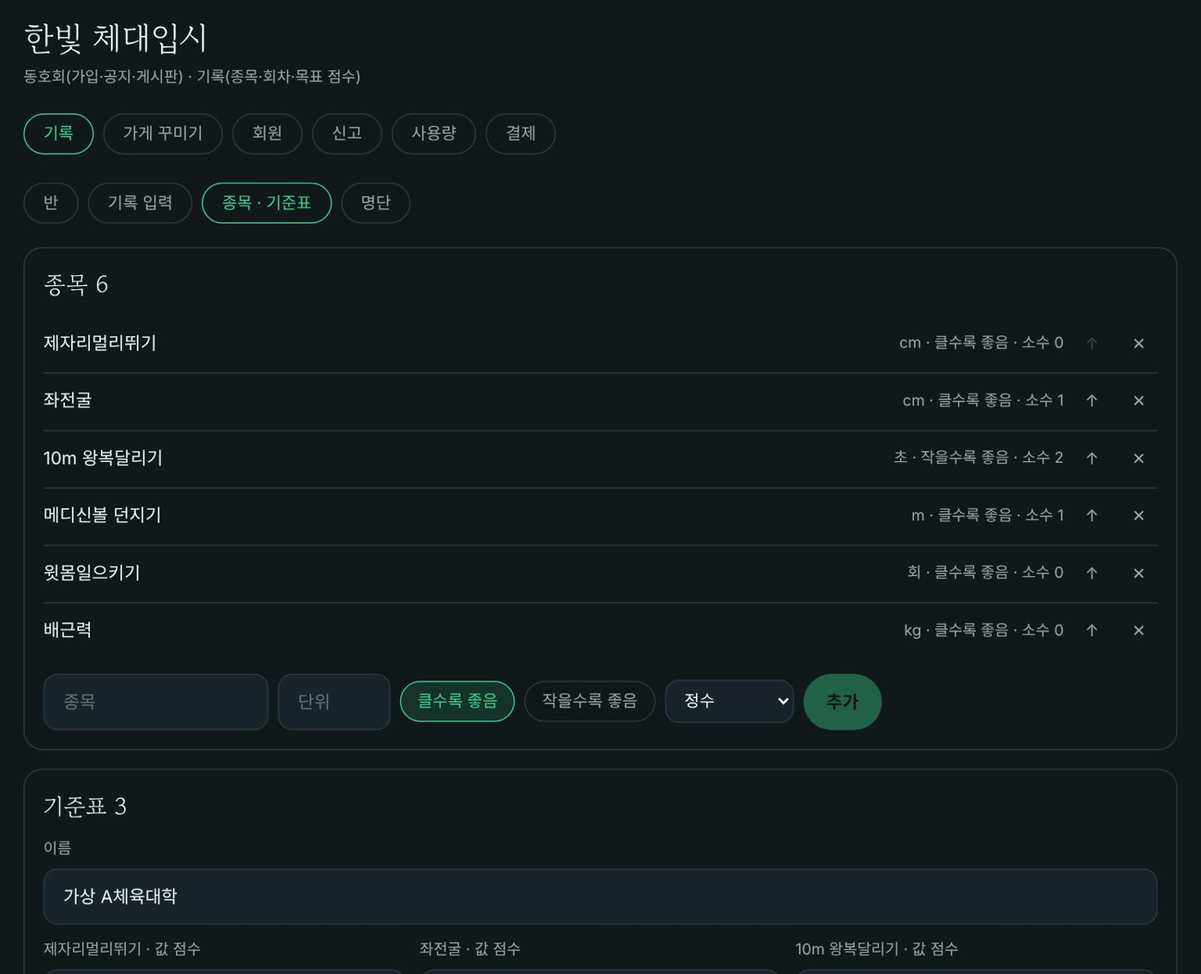
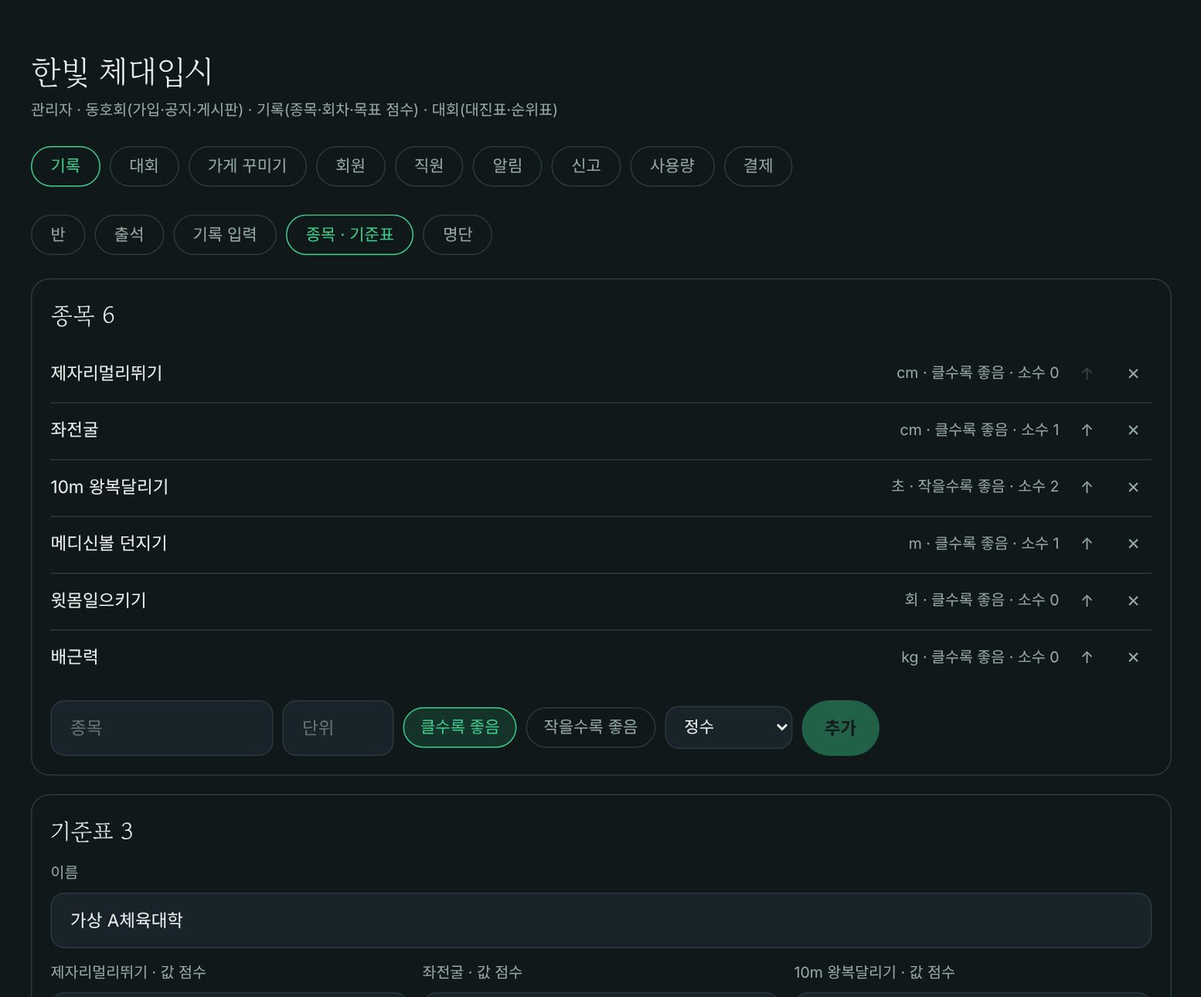
체대입시 페이지: 첫 화면 새 틀 + 출석·대회 장면, 카드 "바로 가능"
- 첫 화면: "실기 기록 · 출석 · 대회를 우리 학원 이름의 앱 하나로" + 3줄 + 코치 PC·학부모 링크 겹침
- 추천에 "출석 · 보호자 알림"(출석부·학생 달력), 학부모 리포트에 출석 알림·이번 달 출석
- 옵션 "대회 운영": 공개 링크 대진표·조별 순위 + 코치 화면·점수 넣기·참가자
- 장면 이미지 다시 찍음(img/sports 20장)
- 사이트: 체대입시 카드 "바로 가능", 기능 목록 갱신, "대회 운영" 부품 완료로
- docs/main.md 갱신

Claude-Session: https://claude.ai/code/session_01R73CvLEENwJndsexuEVBaY

diff --git a/demo/sports.html b/demo/sports.html
@@ -3,7 +3,7 @@
 <head>
 <meta charset="utf-8">
 <meta name="viewport" content="width=device-width, initial-scale=1">
-<title>체대입시·유소년 스포츠 기록 모듈 — 앱공방</title>
+<title>체대입시·유소년 스포츠 — 기록·출석·대회 앱 — 앱공방</title>
 <meta name="robots" content="noindex">
 <link rel="preconnect" href="https://fonts.googleapis.com">
 <link href="https://fonts.googleapis.com/css2?family=Noto+Sans+KR:wght@400;500;700;800&display=swap" rel="stylesheet">
@@ -60,6 +60,22 @@
   dialog p{color:var(--ink);text-align:center;font-size:15px;margin-top:10px}
   dialog .close{position:fixed;top:14px;right:14px}
   @media (max-width:640px){h1{font-size:26px}.mhead h3{font-size:22px}}
+  /* ── 첫 화면: 무엇인지 한눈에(실제 화면 두 장 겹쳐서) ── */
+  .hero2{display:grid;grid-template-columns:1fr 1.1fr;gap:48px;align-items:center;padding:56px 0 32px;border-bottom:1px solid var(--line)}
+  .hero2 h1{font-size:42px;letter-spacing:-1.4px;line-height:1.25;margin:10px 0 14px}
+  .hero2 .lead{color:var(--muted);font-size:17px;max-width:30em}
+  .points{list-style:none;padding:0;display:grid;gap:12px;margin:26px 0 0}
+  .points li{display:grid;grid-template-columns:28px 1fr;gap:10px;align-items:start;font-size:16px}
+  .points li i{font-style:normal;width:28px;height:28px;border-radius:9px;background:var(--surface2);color:var(--accent);display:grid;place-items:center;font-size:14px;font-weight:800}
+  .points li span{color:var(--muted)}
+  .actions{display:flex;gap:10px;flex-wrap:wrap;margin-top:28px}
+  .shots{position:relative;padding:18px 0 0}
+  .shots .pc{width:86%;margin-left:auto;display:block;border-radius:14px;border:1px solid var(--line);box-shadow:0 20px 60px rgba(0,0,0,.5)}
+  .shots .mobile{position:absolute;left:0;bottom:-24px;width:34%;border-radius:24px;border:6px solid #0b0d0d;box-shadow:0 24px 60px rgba(0,0,0,.6);background:#0b0d0d}
+  .shots .label{position:absolute;font-size:13px;font-weight:700;background:var(--night);border:1px solid var(--line);border-radius:999px;padding:4px 12px;color:var(--ink)}
+  .shots .label.l2{right:3%;top:0}
+  .shots .label.l1{left:4%;bottom:-40px}
+  @media (max-width:900px){.hero2{grid-template-columns:1fr;gap:28px;padding:32px 0 56px}.hero2 h1{font-size:30px}}
 </style>
 </head>
 <body>
@@ -69,14 +85,31 @@
 </div></header>
 
 <main class="wrap">
-  <section class="hero">
-    <p class="eyebrow">시스템 서비스 · 체대입시 · 유소년 스포츠 · 태권도</p>
-    <h1>실기 기록 · 목표 점수 모듈</h1>
-    <div class="pills">
-      <span class="pill">가상 데이터로 찍은 실제 화면</span>
-      <span class="pill">엑셀 대신 반 × 종목 표에 입력</span>
-      <span class="pill">학부모는 로그인 없이 링크로</span>
+  <section class="hero2">
+    <div>
+      <p class="eyebrow">체대입시 · 유소년 스포츠 · 태권도 · 운동부</p>
+      <h1>실기 기록 · 출석 · 대회를<br>우리 학원 이름의 앱 하나로</h1>
+      <p class="lead">코치는 PC에서 기록과 출석을 표에 찍고, 학부모는 로그인 없이 링크 하나로 아이의 기록과 출석을 봐요. 앱 이름·색·아이콘은 우리 학원 것으로.</p>
+      <ul class="points">
+        <li><i>1</i><div>실기 기록 · 목표 점수 <span>— 반 × 종목 표에 입력, 목표 대학 기준으로 지금 몇 점인지</span></div></li>
+        <li><i>2</i><div>출석 · 보호자 알림 <span>— 명단에서 출석을 찍으면 학부모 휴대폰으로 바로</span></div></li>
+        <li><i>3</i><div>대회 대진표 · 순위표 <span>— 조 편성부터 결과 입력, 우승까지 자동</span></div></li>
+      </ul>
+      <div class="actions">
+        <a class="btn" href="/#contact">문의하기</a>
+        <a class="btn ghost" href="#scenes">화면 보기</a>
+      </div>
     </div>
+    <div class="shots" aria-label="실제 화면(가상 데이터)">
+      <img class="pc" src="/img/sports/goal-1.jpg" alt="코치 PC: 학생 목표 점수와 집중 종목">
+      <img class="mobile" src="/img/sports/parent-1.jpg" alt="학부모 링크: 출석 알림, 코치 한 줄, 이번 달 출석">
+      <span class="label l2">코치 PC</span>
+      <span class="label l1">학부모 링크</span>
+    </div>
+  </section>
+
+  <section class="hero" id="scenes">
+    <p class="eyebrow">가상 데이터로 찍은 실제 화면</p>
     <nav class="jump" aria-label="모듈" id="jump"></nav>
   </section>
   <div id="groups"></div>
@@ -84,12 +117,12 @@
   <section class="cta">
     <div>
       <h2>우리 종목·기준으로 보고 싶다면</h2>
-      <p>측정 종목·반 구성·목표 기준(대학 배점표, 승급 기준)을 적어 주시면 그 내용으로 바꾼 화면을 보내 드려요.</p>
+      <p>측정 종목·반 구성·목표 기준(대학 배점표, 승급 기준)·수업 요일을 적어 주시면 그 내용으로 바꾼 화면을 보내 드려요.</p>
     </div>
     <a class="btn" href="/#contact">문의하기</a>
   </section>
 </main>
-<footer class="wrap">화면의 학원·학생·기록은 모두 가상 데이터이고, 기준표의 학교 이름과 점수도 실제가 아니에요. 실제 기준표는 학원이 학교별 모집요강을 보고 넣습니다.</footer>
+<footer class="wrap">화면의 학원·학생·기록·출석·대회는 모두 가상 데이터이고, 기준표의 학교 이름과 점수도 실제가 아니에요. 실제 기준표는 학원이 학교별 모집요강을 보고 넣습니다.</footer>
 
 <dialog id="zoom" aria-label="크게 보기">
   <button class="btn ghost close" type="button" id="zoomClose">닫기</button>
@@ -113,14 +146,25 @@ const GROUPS = [
       ["goal-2", "반 전체 표", "학생 × 종목 최근 기록, 반 평균보다 좋으면 강조"],
       ["goal-3", "기준표 넣기", "종목마다 \"기록 점수\" 줄을 붙여넣기"],
     ]},
+    { id: "attend", rec: true, plan: "업종 패키지 포함", title: "출석 · 보호자 알림", line: "명단에서 출석·지각·결석을 찍으면 알림을 켠 학부모에게 바로", wide: true, scenes: [
+      ["attend-1", "출석부", "반 × 날짜, \"모두 출석\" 한 번에, 학생마다 이번 달 출석률"],
+      ["attend-2", "학생 출석 달력", "이번 달 출석률·지난달, 날마다 출석·지각·결석"],
+    ]},
     { id: "parent", rec: true, plan: "업종 패키지 포함", title: "학부모 리포트", line: "로그인 없이 링크 하나로. 다른 학생 이름은 보이지 않음", wide: false, scenes: [
-      ["parent-1", "리포트 첫 화면", "코치 한 줄, 요약 문장, 목표 점수"],
+      ["parent-1", "리포트 첫 화면", "출석 알림 켜기, 코치 한 줄, 이번 달 출석"],
+      ["attend-3", "이번 달 출석 · 요약", "출석 달력과 목표 점수 문장"],
       ["parent-2", "종목별 추이", "회차마다 기록, 반 평균과 목표 점선"],
     ]},
   ]},
-  { title: "다음 단계 — 출석과 대회까지", modules: [
-    { id: "attend", plan: "옵션", soon: true, title: "출결 · 공지", line: "결석을 바로 알고 학부모에게 알리게", steps: ["수업 장소 QR로 출석", "결석·지각이 자동으로 표시되고 알림", "공지는 학부모 리포트 링크와 같은 곳에"] },
-    { id: "match", plan: "옵션", soon: true, title: "대회 운영", line: "학원·도장 자체 대회를 앱에서", steps: ["참가 신청 받기", "대진표·조 편성", "결과 입력 → 순위표 자동"] },
+  { title: "옵션 — 학원·도장 자체 대회", modules: [
+    { id: "match", plan: "옵션", title: "대회 운영", line: "토너먼트 · 리그 · 조별 리그 + 본선. 결과만 넣으면 대진표와 순위표가 자동으로", wide: false, scenes: [
+      ["comp-3", "공개 링크 — 대진표", "로그인 없이, 학부모·참가자에게 링크 하나로"],
+      ["comp-4", "공개 링크 — 조별 순위", "승점 → 득실차 → 다득점, 라운드별 결과"],
+    ], wideScenes: [
+      ["comp-1", "코치 화면", "본선 대진표와 조별 순위표, 경기를 누르면 점수 입력"],
+      ["comp-2", "점수 넣기", "동점이면 승부차기 승자 고르기"],
+      ["comp-5", "참가자 · 방식", "\"이름, 소속\" 붙여넣기 또는 반 명단 불러오기, 같은 소속은 다른 조로"],
+    ]},
   ]},
   { title: "기본 포함", modules: [
     { id: "manage", plan: "모든 패키지", title: "반 · 학생 · 종목 관리", line: "명단은 붙여넣기 한 번, 종목은 학원이 직접 정함", wide: true, scenes: [

diff --git a/index.html b/index.html
@@ -511,13 +511,13 @@ const SYSTEM = {
   industries: [
     { id:"sys-gym", icon:"🏋", title:"헬스장 · PT · 필라테스", status:"ready", scenes:"/demo/gym", feat:["이용권(횟수권·기간권)", "수업 예약·대기", "출석(매장 QR)", "+ 이용권 판매·청구(회원 결제)", "+ 매니저·코치 권한", "혼잡도(준비 중)"] },
     { id:"sys-academy", icon:"📚", title:"학원 · 공부방", status:"soon", scenes:"/demo/academy", feat:["반·학생 관리", "출결", "숙제", "학부모 공지", "+ 단원·개념별 취약 진단", "+ 학생별 문제 자동 조합", "+ 힌트·해설 단계 공개"] },
-    { id:"sys-youth", icon:"🥋", title:"체대입시 · 유소년 스포츠 · 태권도", status:"soon", scenes:"/demo/sports", feat:["반·학생 관리", "보호자 공지", "+ 실기·체력 기록과 추이", "+ 목표 점수(배점표·승급 기준)", "+ 학부모 리포트 링크", "출석·대회(준비 중)"] },
+    { id:"sys-youth", icon:"🥋", title:"체대입시 · 유소년 스포츠 · 태권도", status:"ready", scenes:"/demo/sports", feat:["반·학생 관리", "출석·보호자 알림", "보호자 공지", "+ 실기·체력 기록과 추이", "+ 목표 점수(배점표·승급 기준)", "+ 학부모 리포트 링크", "+ 대회 대진표·순위표"] },
     { id:"sys-salon", icon:"💇", title:"미용실 · 네일 · 피부관리", status:"soon", feat:["시간 예약", "담당자 선택", "시술 기록"] },
     { id:"sys-cafe", icon:"☕", title:"식당 · 카페", status:"soon", feat:["메뉴판", "포장 주문", "대기 등록", "쿠폰"] },
     { id:"sys-club", icon:"🧗", title:"동호회 · 모임 · 스터디", status:"ready", demo: DEMO + "demo-club", scenes:"/demo/club", feat:["가입 승인", "모임 일정·참가 신청", "단체 채팅", "회비(준비 중)"] },
   ],
   special: [
-    { title:"대회 운영", parts:[["참가 신청·참가비",1],["공지·단체 채팅",1],["조 편성·대진표·순위표",0],["경기 결과 입력",0]] },
+    { title:"대회 운영", scenes:"/demo/sports#match", parts:[["참가 신청·참가비",1],["공지·단체 채팅",1],["조 편성·대진표·순위표",1],["경기 결과 입력",1]] },
     { title:"신체 능력 측정", scenes:"/demo/sports", parts:[["기록 추세 계산",1],["측정 항목·등급표 직접 설정",1],["단체 일괄 입력",1]] },
     { title:"개인 성장 프로필", scenes:"/demo/sports", parts:[["그래프·리포트",1],["회차별 기록 저장·비교",1],["보호자·본인 리포트 공유",1]] },
     { title:"취약 진단 · 맞춤 시험지", scenes:"/demo/academy", parts:[["레벨 측정·적응형 퀴즈",1],["단원·개념별 숙달도 히트맵·추이",0],["학생별 비율로 문제 자동 조합",0],["힌트 단계·해설 일부 공개",0]] },

diff --git a/docs/main.md b/docs/main.md
@@ -32,7 +32,7 @@
 | `index.html` | 첫 화면에서 **앱 판매 / 시스템 서비스** 두 갈래(`#apps`·`#system`). 앱 판매: 맨 위 "사업 아이디어를 서비스로"(아이디어 예시 5개 + 내 아이디어, 부품 ✓있음/○준비 중, 데이터 `IDEAS`) → "분야별 전문 기능"(학습·운동·연결·판매·데이터 묶음 + 기타, 데이터 `DOMAINS`) → 상품 목록(분류: 앱 템플릿·기능 모듈·설치/운영, 검색) → 상품 상세 창(화면·기능·패키지 가격·데모·"이 상품 문의하기"). 시스템 서비스: 1 기본(모든 업종) → 2 업종 패키지 → 3 추가 기능 → 4 우리 조직 전용 모듈(`SYSTEM.special`) → 5 이용 방식(월 구독·설치형·유지보수). 공통: 이용 방법·FAQ·문의창. 데이터는 파일 안 `PRODUCTS`(앱 판매)·`SYSTEM`(시스템 서비스). 카드의 `scenes` = 모듈 화면 페이지(`/demo/<업종>`, "모듈 화면 보기", 같은 탭), `demo` = 체험 앱(새 탭) |
 | `demo/academy.html` | 학원 학습 모듈 소개(`/demo/academy`, 검색 제외). **첫 화면 = 무엇인지 한눈에**(11/16, PR #14): 제목 "약점 진단 · 맞춤 시험지를 우리 학원 이름의 앱 하나로" + 할 일 3줄 + 원장님 PC 학생 리포트(`diag-3`) 위 오른쪽에 학생 앱(`solve-2`) 겹침. 장면 데이터는 **고1 수학**(이차방정식·이차함수 45문제, 그래프 문제 10개, PR #16), 풀이 모듈에 그래프 도구 `solve-5`, 관리에 수업 화면 그래프 `manage-4`(PR #18). 그 아래 **모듈별 장면 스크린샷**(실제 앱 + 가상 데이터, `img/academy/*.jpg`), 순서: 추천 모듈(진단·리포트 → 맞춤 시험지 → 풀이·힌트) → 다음 단계(질문·피드백, 학부모 리포트) → 기본 포함(반·학생 관리·설정). 모듈마다 요금제 표시·장면 3~4컷·캡션·크게 보기·"이 모듈 문의". 데이터는 파일 안 `GROUPS`. 스크린샷 갱신: `dating`의 `scripts/learn-demo-seed.py`로 가상 학원을 만들고 자동 캡처 |
 | `demo/club.html` | 동호회·크루 운영 모듈 소개(`/demo/club`, 검색 제외, PR #4). 같은 틀: 추천(가입·회원 관리 → 정모 일정·참가 신청 → 공지·게시판) → 다음 단계(회비·참가비, 출석 — 없는 기능은 `soon: true`로 화면 없이 흐름 3줄) → 기본 포함(운영진 화면, PC). 이미지 `img/club/*.jpg` 13장. 갱신: `dating`의 `scripts/club-demo-seed.py` → `club-demo-shots.py`. 맨 아래 "체험 동호회 직접 써 보기" = 배포 `demo-club` |
-| `demo/sports.html` | 체대입시·유소년 기록 모듈 소개(`/demo/sports`, 검색 제외, PR #5). 추천(실기 기록·추이 → 목표 대비 점수 → 학부모 리포트) → 다음 단계(출결·공지, 대회 운영 — 준비 중) → 기본 포함(반·학생·종목). 이미지 `img/sports/*.jpg` 11장(가상 학원·가상 기준표). 갱신: `dating`의 `scripts/sports-demo-seed.py` → `sports-demo-shots.py` |
+| `demo/sports.html` | 체대입시·유소년 스포츠 소개(`/demo/sports`, 검색 제외). 첫 화면(코치 PC 목표 점수 + 학부모 링크 겹침) → 추천(실기 기록·추이 → 목표 대비 점수 → 출석·보호자 알림 → 학부모 리포트) → 옵션(대회 운영: 공개 링크 대진표·조별 순위 + 코치 화면) → 기본 포함(반·학생·종목). 이미지 `img/sports/*.jpg` 20장(가상 학원·가상 기준표·가상 대회). 갱신: `dating`의 `scripts/sports-demo-seed.py` → `comp-demo-seed.py` → `sports-demo-shots.py`·`comp-demo-shots.py` |
 | `demo/gym.html` | 헬스장·PT 모듈 소개(`/demo/gym`, 검색 제외). **첫 화면 = 무엇인지 한눈에**: 제목("헬스장 예약·출석·결제를 우리 이름의 앱 하나로") + 회원이 하는 일 3줄 + 실제 화면 두 장 겹침(사장님 PC 오늘 명단 위에 회원 앱 예약 탭). 그 아래는 장면 스크린샷을 그대로 펼쳐 둠. 추천(수업 예약·대기 → QR 출석 → 이용권 판매·청구) → 다음 단계(혼잡도, 1:1 PT 시간 예약 — 준비 중) → 기본 포함(회원 이용권·시간표·이용권 종류·직원). 이미지 `img/gym/*.jpg` 12장(회원 휴대폰 3 + 관리자 PC 9, 가상 헬스장 "모아 피트니스"). 갱신: `dating`의 `scripts/fake-portone.py` + `gym-demo-seed.py` → `gym-demo-shots.py`(예약·역할·결제가 다 들어간 코드로) |
 | `demo/academy-try.html` | 예전 학원 데모(샘플 데이터로 직접 눌러 보기: 히트맵·자동 조합·힌트·해설). `/demo/academy`에서 "샘플로 직접 눌러 보기"로 연결 |
 | `admin.html` | 문의함(`/admin`). `ADMIN_KEY`로 열기(탭 닫기 전까지 sessionStorage), 처리 전/처리함/전체, 연락처 복사, 처리 표시 |
@@ -98,7 +98,8 @@
 - **기록(측정) 모듈(11/15)**: `dating` PR #14 — 모듈 `record`(종목·회차 기록, 반 카드·표, 학생 리포트·목표 기준표 점수·집중 종목, 코치 한 줄, 학부모 링크 `/record/report`), 템플릿 `sports`(체대입시·유소년 스포츠), 반·학생 명단은 학습과 같이 씀(`Roster.tsx`), 코어 `TENANT_SCOPED`에 `record`. `software-market` PR #5 `/demo/sports`. 둘 다 합침·배포(사이트 업종 카드에서 연결). 가격 미정(페이지엔 "업종 패키지 포함 / 옵션"만).
 - 학원 학습 진단: M1(문제은행·가져오기·반·학생, PR #4), M2(풀이 기록·채점·숙달도·진단 표·학생 리포트, PR #5), 화면 구조(반 카드 → 학생 프로필 카드 → 학생 리포트·채점 기록 바로 고치기, 반에서 채점하기, PR #6), M3(학생별·반 전체·반 공통 시험지 자동 조합, 고른 이유 표시, 그 자리 채점, A4 인쇄·PDF·정답지, PR #7) 완료·배포(PR #9). **M4·M5(PR #10, 합침·배포)**: 학생 화면 `/learn?t=<가게>`(입장 코드 → 내 시험지·반 공통 → 한 문제씩, 맞춤 연습 하루 3장), 힌트·해설 공개 설정(바로·한 번 틀린 뒤·강사 허용, 답 기회, 해설 단계, 숫자 가리기), 학부모 리포트 링크 `/learn/report`. 원장·강사 권한 나누기는 안 함. 데모 `/demo/academy`는 샘플 데이터.
 - **기능 모듈 1순위(확장 1단계, 11/15)**: ① **알림(웹 푸시)** `dating` PR #15 합침 — 코어 `webPush.ts`·`pushStore.ts`, `/api/push`, 내 정보 "알림" 켜기/끄기(아이폰은 설치 안내), 동호회 공지·가입 신청·승인·모임 신청·확정 알림, 가게 관리자 "알림" 탭 직접 보내기(하루 20번). **배포에서 쓰려면 사용자가 내 컴퓨터에서 `node scripts/vapid-keys.mjs` → `VAPID_PUBLIC_KEY`·`VAPID_PRIVATE_KEY`·`VAPID_SUBJECT`를 Vercel에 직접**(없으면 알림 화면만 숨김). ② **예약·이용권·출석(`book`)** `dating` PR #16 합침 — 횟수권·기간권 발급, 주간 시간표·정원·대기(취소 시 앞 사람 자동 예약 + 알림), 취소 마감 전 취소는 1회 돌려줌, 매장 QR 출석 `/checkin`(예약 수업 또는 자유 이용 1회, 하루 한 번), 관리자 "예약" 탭(오늘 명단·출석, 회원 이용권 발급·고치기, 시간표, 이용권 종류, QR 인쇄·바꾸기, 설정), 헬스장·PT 템플릿 `gym`. 결제 없음(관리자 발급). 실제 휴대폰 카메라 QR 확인 전. ②-2 **역할·권한** `dating` PR #17 합침·배포(11/16) — 관리자(owners)·매니저(직원 정하기·결제·가게 꾸미기 빼고 전부, 동호회 공지·가입 승인 포함)·강사·코치(학습·기록 전부, 예약은 명단·출석·QR 보기, 회원 목록 보기). 관리자 화면 "직원" 탭(아이디·이메일로 추가), 역할에 맞는 탭만, 서버도 동작마다 막음(core `staffStore.ts` `role:v1:staff`, 앱 `src/lib/roles.ts` 권한 표 하나). 지점 구분은 아직 없음(지점마다 가게). ③ **회원 결제(`pay`)** `dating` PR #18 합침·배포(11/16) — 가게 명의 PG로 청구(고른 사람·회원 전체, 이용권 종류 고르면 결제 시 자동 발급, 기한·미납 표시, 다시 알림·링크·취소·전액 환불)·회원 `/pay`(결제·이용권 직접 구매·지난 내역). 결제됨은 서버가 포트원에서 직접 PAID·금액 확인. 가게 PG 키는 운영자 화면(비밀 키 `PAY_KEYS_SECRET`으로 암호화), 공유 서버에서 환경 변수 키는 main만. **배포 전 사용자: Vercel에 `PAY_KEYS_SECRET`(32자 이상) 넣기, 가게 주인 포트원 테스트 채널 키를 운영자 화면에 넣고 `pay` 모듈 켜기.** 포트원 웹훅·정기 회비·현금 수기 처리는 아직.
-- **업종 페이지 첫 화면(11/16)**: 헬스장(PR #13)·학원(PR #14) 새 틀로 바꿔 합침·배포. 남은 것: 동호회·체대입시.
+- **업종 페이지 첫 화면(11/16)**: 헬스장(PR #13)·학원(PR #14) 새 틀로 바꿔 합침·배포, 체대입시(이번 PR). 남은 것: 동호회.
+- **체대입시·유소년 완성(11/16, PR 대기)**: `dating` PR #23(기록 모듈 출석부 + 학부모 링크 출석 알림 — 유소년은 앱 계정이 없어 예약·QR 대신 명단 출석부), PR #25(대회 모듈 `comp`: 토너먼트·리그·조별+본선, 조 편성·결과·순위표·공개 링크 `/comp`), `software-market` 체대입시 페이지 첫 화면·출석·대회 장면 + 카드 "바로 가능". 합치는 순서: #23 → #25(README 충돌 정리) → software-market. 범위 밖: 회원 직접 참가 신청·참가비 결제, 경기 결과 알림, 아이폰 Safari 학부모 알림.
 - **집중 업종 = 학원(11/16, 학원부터 진행)**: 학습 모듈이 가장 많이 됨, 가격 확정, 월 구독, 첫 고객 경로(지인 학원·수성구). 헬스장은 크몽 납품형, 동호회는 크몽 입문, 체대입시는 학원 옵션으로.
 - **학원: 문제 그래프·그래프 도구(11/16)**: `dating` PR #20·#21 합침·배포 — 문제마다 글로 적은 그래프 설명(`범위`·`곡선 y = …`·`점 A(0, 1)`·`점선 P → x축`·`색칠 0~3`·`눈금 없음` 등, `src/lib/learn/graph.ts`, 자체 식 파서) → 문제은행·시험지 보기·학생 화면·인쇄에 같은 SVG, 가져오기 `그래프` 칸, 못 읽으면 `BAD_GRAPH`. 데모 시드 고1 수학 45문제. 그래프 도구(PR #21)(`GraphTool.tsx`·`graphTool.ts`): 끌기·두 손가락·휠·＋－ 확대, 점(격자 반 칸), 잇기(두 점 → 기울기·식), 식 그리기, 찾기(교점·꼭짓점·x절편), 학생이 그린 것 강조색·저장 안 함. 학생 화면은 그래프 문제에서 도구로(강사가 `눈금 없음`이면 다 풀기 전 좌표·기울기·찾기 숨김), 관리자 `학습 → 그래프` 탭, `/learn/graph`. 실제 휴대폰 두 손가락 확대는 확인 전. `software-market` PR #18(장면 2컷) 합침.
 - **학원: 📷 사진 질문(11/16)**: `dating` PR #22 합치기 대기 — 학생 "📷 모르는 문제 찍기"(하루 5장) → AI(Anthropic, `ANTHROPIC_API_KEY`·`LEARN_AI_MODEL` 기본 claude-sonnet-5-5)가 문제 글·그래프·개념·힌트 3단계·풀이·정답을 읽음 → 학생은 힌트 한 단계씩·선생님께 질문(정답·풀이는 안 감) → 관리자 `학습 → 📷 질문` 탭(개념별 수, 답장·수업에서 다룸·문제은행에 넣기), 문제은행 `📷 사진으로`(강사 수업 문제 넣기). 사진 30일 뒤 삭제, 키가 없으면 버튼이 숨음. 문제 고쳐 저장하면 하나 더 생기던 버그도 고침. 사이트 `/demo/academy`에 "📷 사진 질문" 모듈 4컷(`software-market` PR #21 대기). **실제 AI로 실제 사진 읽기는 확인 전 — 사용자가 Vercel에 `ANTHROPIC_API_KEY`를 넣은 뒤 확인.**
@@ -162,6 +163,8 @@
 - **사이트(11/14)**: 소프트웨어 마켓 형태, 문의는 사이트 안 문의창 → Upstash 저장 → 문의함. 영어앱 도메인의 서브도메인 `apps.`에 연결(영어앱과 분리, 실제 운영 앱이라는 신뢰). 커지면 전용 도메인으로 이전.
 
 ## 9. 작업 기록
+
+- 2026-11-16 체대입시·유소년 완성 작업: `dating` PR #23(출석부·보호자 출석 알림, 코어 `pushStore.clearSubscriptions`), PR #25(대회 모듈 `comp`, 코어 `TENANT_SCOPED`에 `comp`, 체대입시 템플릿에 켬, `scripts/comp-demo-*.py`), `software-market` 체대입시 페이지(첫 화면 새 틀, 출석·대회 장면 9장 추가, 사이트 카드 "바로 가능"·"대회 운영" 부품 ✓). 두 브랜치를 로컬에서 합친 코드로 캡처.
 - 2026-11-16 📷 사진 질문: `dating` PR #22(학생 찍기 → AI 읽기 → 힌트 → 질문, 강사 탭·사진으로 문제 넣기, 가짜 AI·가상 문제 사진으로 장면 캡처, 테스트 194), `software-market` PR #21(모듈 4컷). PR #21 그래프 도구·#18 장면 합침.
 - 2026-11-16 시스템 서비스 헬스장 카드 "준비 중" → "바로 가능"(예약·QR 출석·역할·회원 결제 배포됨).
 - 2026-11-16 학원 집중: 저장소 4개 연결, `/demo/academy` 첫 화면 헬스장 틀로(PR #14). 장면 데이터를 고1 수학으로(`dating` #20·`software-market` #16 합침·배포). 문제 그래프(글 → SVG) 추가. 사용자 제안으로 방향 정리(문제 다 옮기지 않음, 📷 질문, 그래프는 만지는 도구) → `dating` PR #21 그래프 도구(테스트 179·typecheck·lint·build, 헤드리스로 끌기·확대·잇기·찾기 확인), `software-market` PR #18 장면 2컷.
